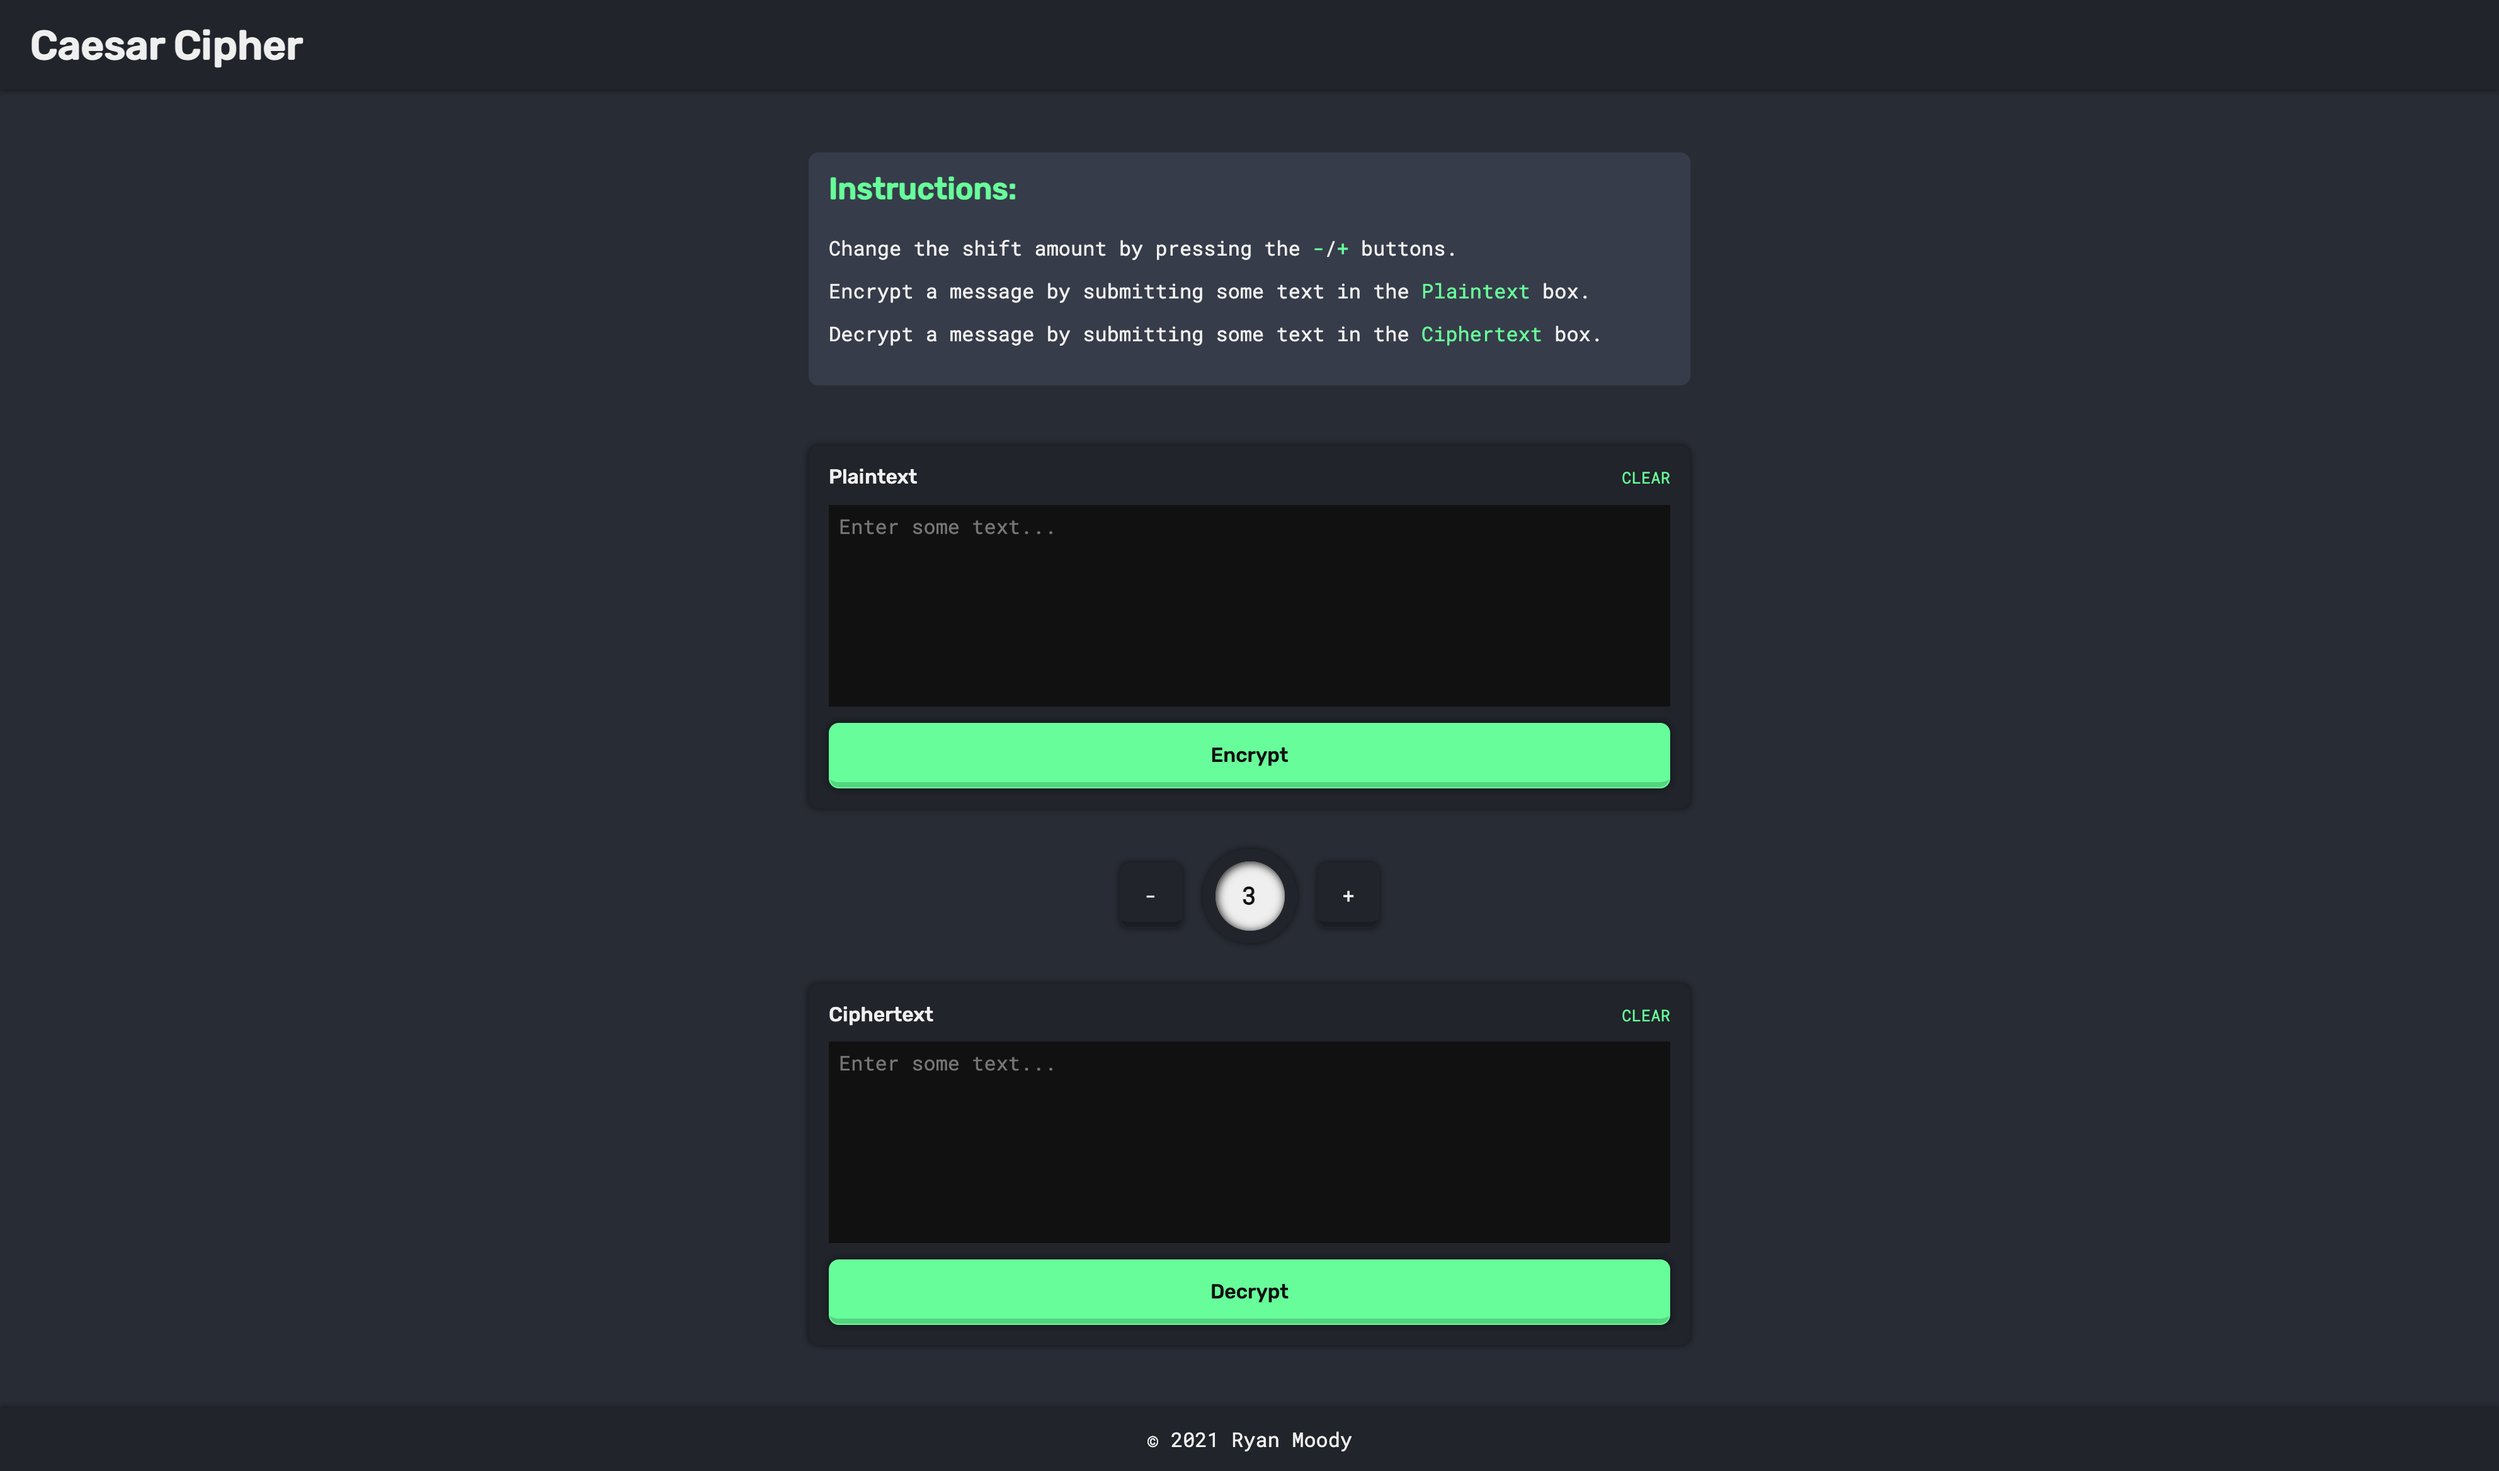
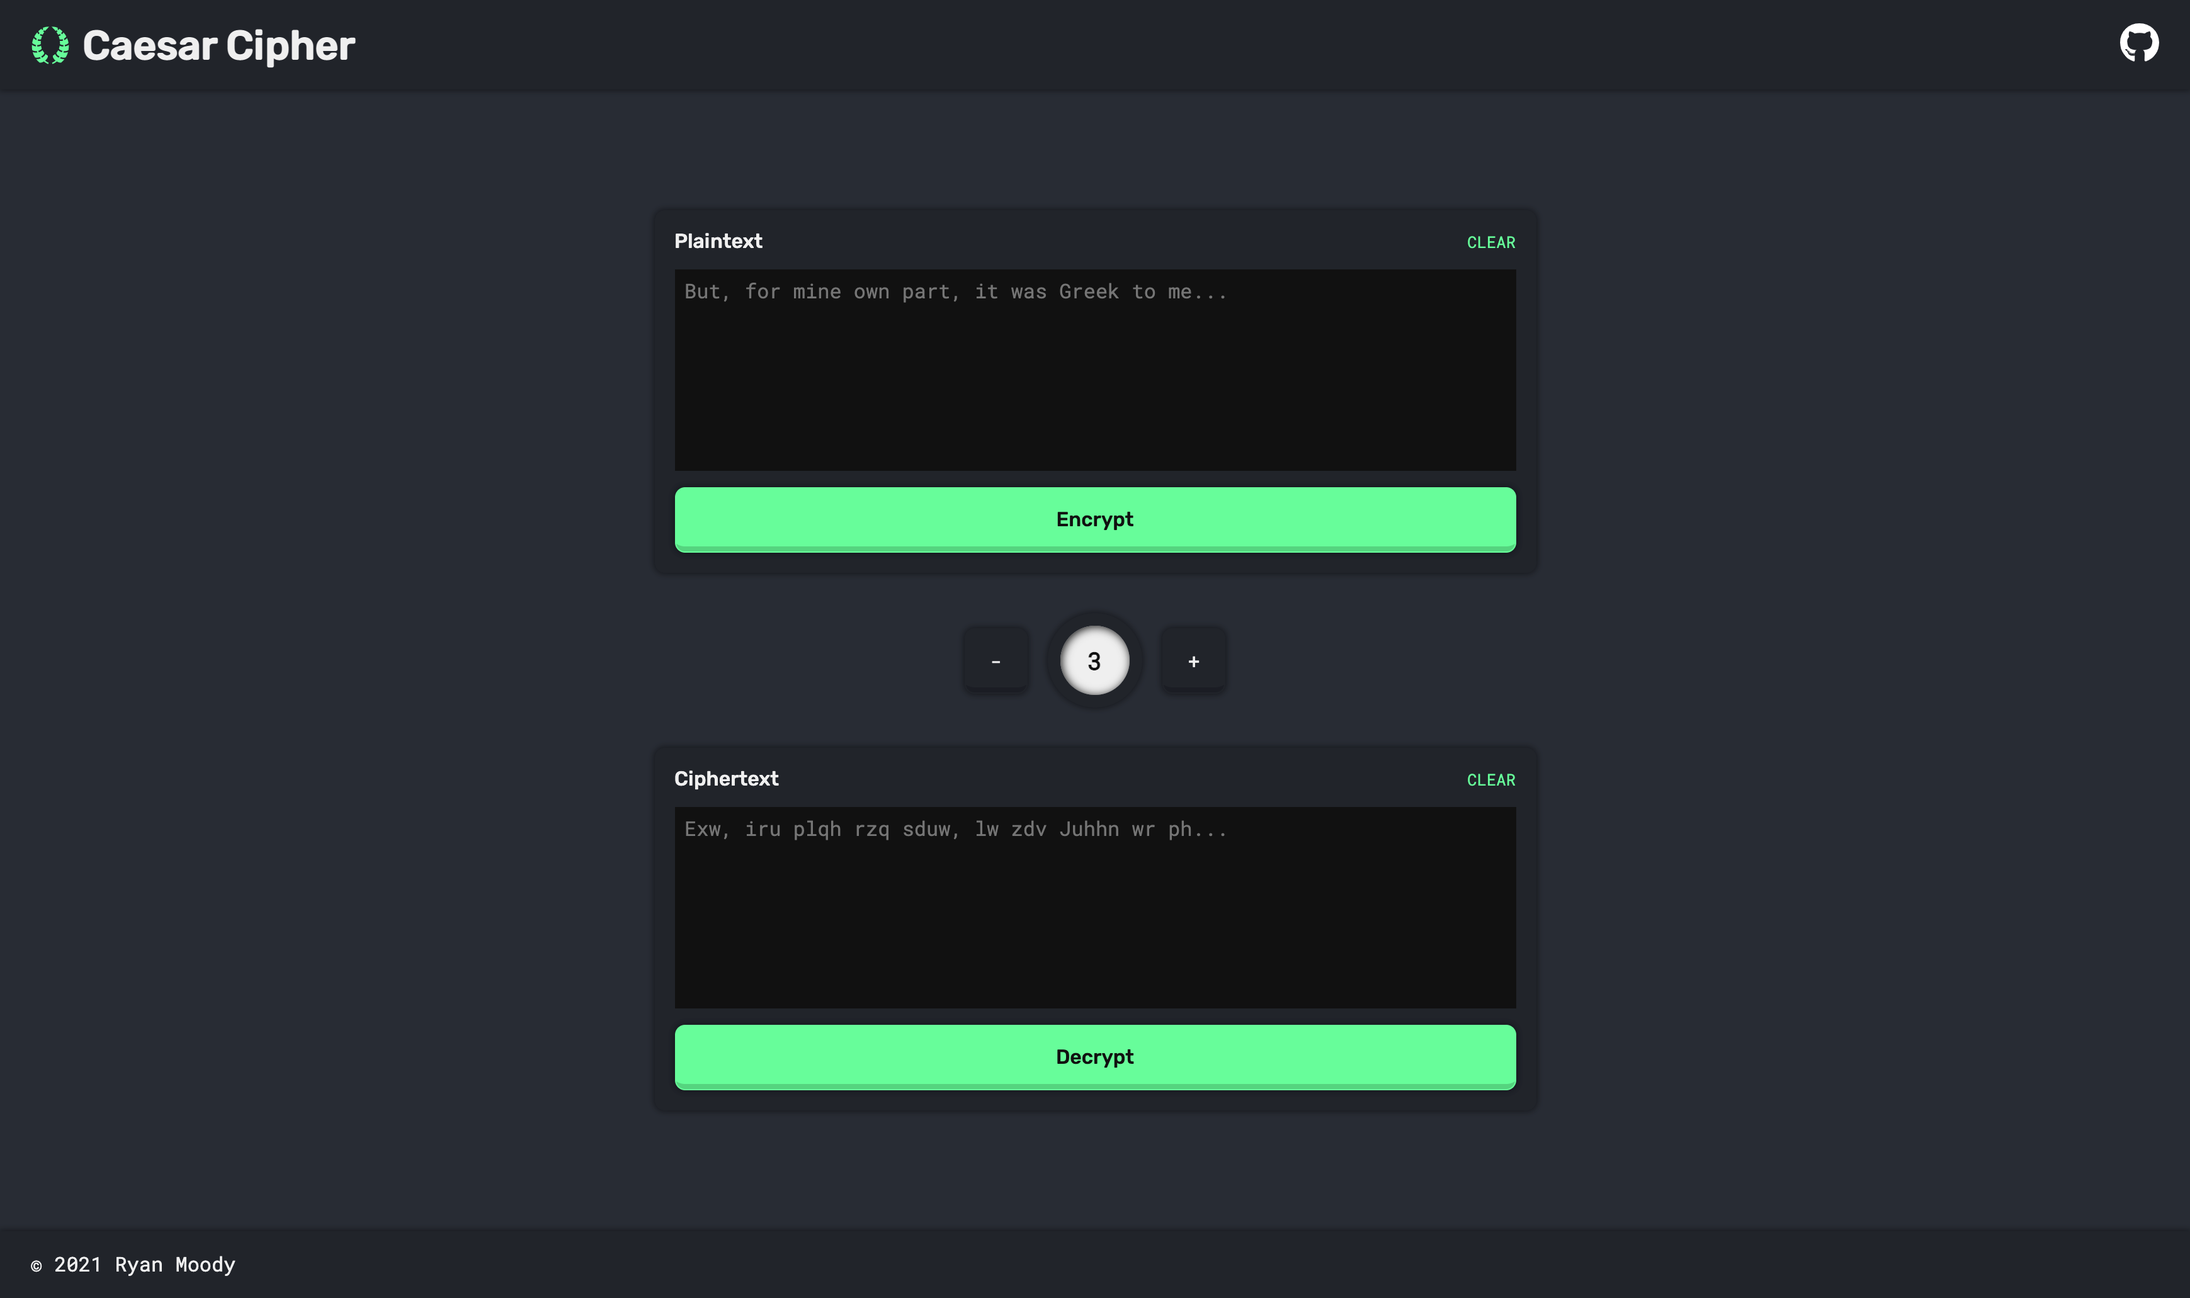
frfeeature: update header

diff --git a/src/components/Cipher.jsx b/src/components/Cipher.jsx
@@ -1,9 +1,9 @@
-import React, { useState } from 'react';
-import { encode, decode } from '../util/cipher-util';
+import React, { useState } from "react";
+import { encode, decode } from "../util/cipher-util";
 
 const Cipher = () => {
-  const [plainText, setPlainText] = useState('');
-  const [cipherText, setCipherText] = useState('');
+  const [plainText, setPlainText] = useState("");
+  const [cipherText, setCipherText] = useState("");
   const [shiftValue, setShiftValue] = useState(3);
 
   const onEncode = () => {
@@ -25,61 +25,65 @@ const Cipher = () => {
   };
 
   const clearPlainText = () => {
-    setPlainText('');
+    setPlainText("");
   };
 
   const clearCipherText = () => {
-    setCipherText('');
+    setCipherText("");
   };
-  
+
   return (
-    <div className='cipher-container'>
-      <div className="instructions-container">
-        <h2 className="accent-color">Instructions:</h2>
-        <p>Change the shift amount by pressing the <span className="accent-color">-</span>/<span className="accent-color">+</span> buttons.</p>
-        <p>Encrypt a message by submitting some text in the <span className="accent-color">Plaintext</span> box.</p>
-        <p>Decrypt a message by submitting some text in the <span className="accent-color">Ciphertext</span> box.</p>
-      </div>
-      <div className='input-container shadow'>
+    <div className="cipher-container">
+      <div className="input-container shadow">
         <div className="flex">
           <p>Plaintext</p>
-          <button className='clear-button' onClick={clearPlainText}>clear</button>
+          <button className="clear-button" onClick={clearPlainText}>
+            clear
+          </button>
         </div>
         <textarea
-          placeholder={`Enter some text...`}
+          placeholder={`But, for mine own part, it was Greek to me...`}
           onChange={(event) => setPlainText(event.target.value)}
           value={plainText}
-          name='plain-text'
-          maxLength='500'
-          rows='8'
-          wrap='soft'
-        >
-        </textarea>
-        <button className='button' onClick={onEncode}>Encrypt</button>
+          name="plain-text"
+          maxLength="500"
+          rows="8"
+          wrap="soft"
+        ></textarea>
+        <button className="button" onClick={onEncode}>
+          Encrypt
+        </button>
       </div>
-      <div className='controls-group'>
-        <button className='counter-button' onClick={onShiftDown}>-</button>
-        <div className='counter-number'>
-          <p className='counter-text'>{shiftValue}</p>
+      <div className="controls-group">
+        <button className="counter-button" onClick={onShiftDown}>
+          -
+        </button>
+        <div className="counter-number">
+          <p className="counter-text">{shiftValue}</p>
         </div>
-        <button className='counter-button' onClick={onShiftUp}>+</button>
+        <button className="counter-button" onClick={onShiftUp}>
+          +
+        </button>
       </div>
-      <div className='input-container shadow'>
+      <div className="input-container shadow">
         <div className="flex">
           <p>Ciphertext</p>
-          <button className='clear-button' onClick={clearCipherText}>clear</button>
+          <button className="clear-button" onClick={clearCipherText}>
+            clear
+          </button>
         </div>
         <textarea
-          placeholder={`Enter some text...`}
+          placeholder={`Exw, iru plqh rzq sduw, lw zdv Juhhn wr ph...`}
           onChange={(event) => setCipherText(event.target.value)}
           value={cipherText}
-          name='cipher-text'
-          maxLength='500'
-          rows='8'
-          wrap='soft'
-        >
-        </textarea>
-        <button className='button' onClick={onDecode}>Decrypt</button>
+          name="cipher-text"
+          maxLength="500"
+          rows="8"
+          wrap="soft"
+        ></textarea>
+        <button className="button" onClick={onDecode}>
+          Decrypt
+        </button>
       </div>
     </div>
   );

diff --git a/src/App.css b/src/App.css
@@ -48,8 +48,26 @@ button {
 }
 
 .logo {
-  margin: 0;
+  display: flex;
+  align-items: center;
+}
+
+.logo-icon {
+  color: #66ff99;
+}
+
+.logo-text {
+  margin: 0 0 0 0.3em;
   font-family: Rubik, sans-serif;
+  font-size: 2em;
+}
+
+.github-icon {
+  color: #fff;
+}
+
+.github-icon:hover {
+  color: #66ff99;
 }
 
 /* Main Content */
@@ -59,7 +77,16 @@ button {
   display: flex;
   flex-direction: column;
   align-items: center;
-  justify-content: center;
+}
+
+@media only screen and (min-width: 768px) {
+  .main {
+    flex-grow: 1;
+    display: flex;
+    flex-direction: column;
+    align-items: center;
+    justify-content: center;
+  }
 }
 
 /* Cipher */
@@ -68,26 +95,6 @@ button {
   width: 90%;
   max-width: 700px;
   margin: 1em 0;
-}
-
-.instructions-container {
-  margin: 2em 0 3em 0;
-  padding: 1em;
-  background-color: #373c49;
-  border-radius: 0.5em;
-}
-
-.instructions-container h2,
-.instructions-container p {
-  padding-bottom: 1em;
-}
-
-.instructions-container h2 {
-  font-family: Rubik, sans-serif;
-}
-
-.accent-color {
-  color: #66ff99;
 }
 
 .input-container {
@@ -207,8 +214,7 @@ button {
 .footer {
   flex-shrink: 0;
   background-color: #20232a;
-  text-align: center;
-  padding: 1em 0;
+  padding: 1.1em 1.5em;
   box-shadow: 0px 0px 5px 1px #16181d;
 }
 

diff --git a/src/components/Header.jsx b/src/components/Header.jsx
@@ -1,10 +1,22 @@
-import React from 'react';
-import '../App.css';
+import React from "react";
+import { FaGithub } from "react-icons/fa";
+import { GiLaurels } from "react-icons/gi";
+import "../App.css";
 
 const Header = () => {
   return (
-    <header className='header'>
-      <h1 className='logo'>Caesar Cipher</h1>
+    <header className="header">
+      <div className="logo">
+        <GiLaurels className="logo-icon" size="2rem" />
+        <h1 className="logo-text">Caesar Cipher</h1>
+      </div>
+      <a
+        href="https://github.com/ryanmoody/caesar-cipher"
+        target="_blank"
+        rel="noopener noreferrer"
+      >
+        <FaGithub className="github-icon" size="2rem" title="GitHub" />
+      </a>
     </header>
   );
 };
